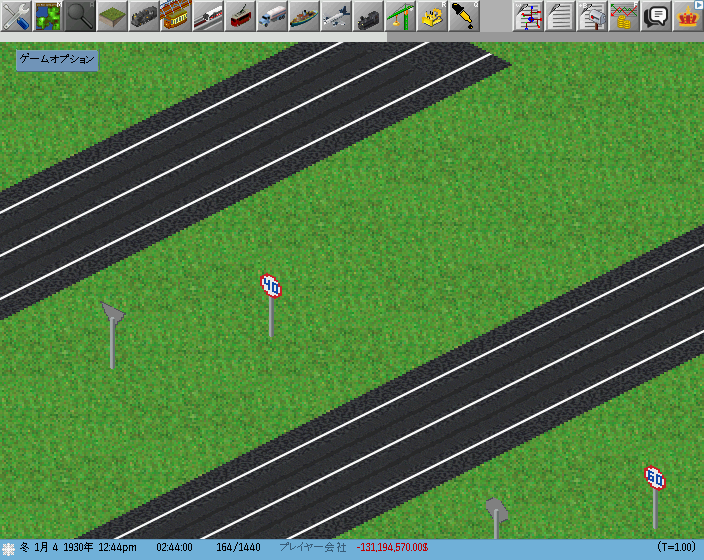
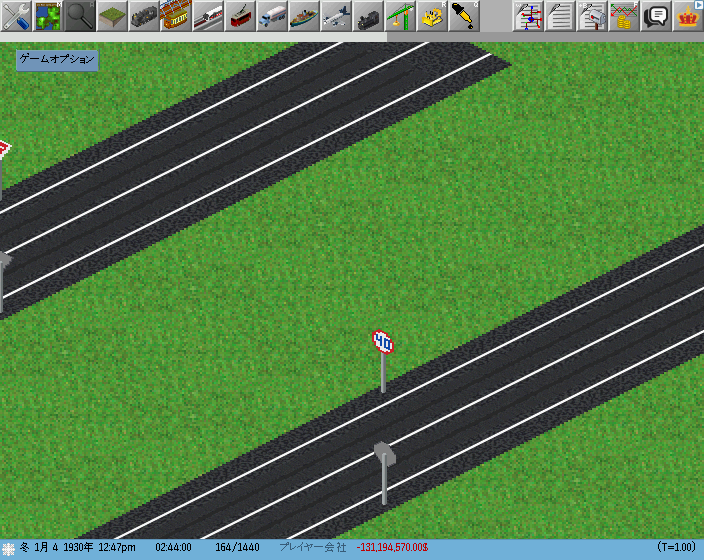
ami: keep the road sign offset_left at 14 for 256 (#261)
The unit is 1/64 of the tile width (tile_raster_scale_x), so it does not scale with the pak size. Doubling it put the signs about one tile off the road.

diff --git a/addons/ami/blender/ami_dat.py b/addons/ami/blender/ami_dat.py
@@ -815,7 +815,7 @@ def yard_dat_text(name):
 ROADSIGN_COST = 500
 ROADSIGN_INTRO_YEAR = 1900
 ROADSIGN_EFFECT = {"one_way": "single_way=1", "min_50": "min_speed=50"}
-ROADSIGN_OFFSET_LEFT = 14 * sheet_settings.SCALE  # 左側通行のときのずらし（本体の既定 14 を明示する。obj/roadsign.cc の calc_image は画素で足すので、pak の大きさに比例させる。#261）
+ROADSIGN_OFFSET_LEFT = 14  # 左側通行のときのずらし（本体の既定と同じ値を明示する。obj/roadsign.cc の calc_image）。単位はタイルの幅の 1/64（描くときに tile_raster_scale_x で現在のタイルの幅に直す）なので、pak の大きさによらず同じ値（256 でも 14。倍にすると標識が 1 タイル近く外へずれる。#261 の B で確かめた）
 ROADSIGN_ICON_CELL = "0.4"  # sheetlib の roadsign.ROADSIGN_ICON_CELL と同じ
 ROADSIGN_CURSOR_CELL = "1.4"  # sheetlib の roadsign.ROADSIGN_CURSOR_CELL と同じ
 ROADSIGN_OFFSET = OFFSET  # 道路の way と同じ（sheetlib の ROAD_CY）

diff --git a/docs/records/2026-11-25_ami-pak-size-256-ways.md b/docs/records/2026-11-25_ami-pak-size-256-ways.md
@@ -9,10 +9,10 @@
 ## 分かったこと（事実）
 
 - **pak128 の全シートが変更前のコードで描いた絵と全画素で一致した**（2026-11-25）。変更前は `origin/main`（`9c8f7cd`）の別の worktree で、変更後は変更したコードで、AMI の 221 シートを描き（踏切は道路の後。最後に `icons.py` を全部）、RGB の全画素（透明色を含む）を比べた（Pillow で 221 枚。差のあるシート 0・欠けたシート 0）。シートの横の控え（`*.road_cells.txt`・`*.icon_sources.txt`）も同じ。変更前の絵はコミット済みのシートと一致した（git の差分なし）。
-- 画素で書いた値は、#266 で共通の部品（`CELL`・高さ 1 段・基準位置・持ち分を広げる行数など）に `SCALE` を掛けてあった。B で直したのは次の 3 つだけ。
+- 画素で書いた値は、#266 で共通の部品（`CELL`・高さ 1 段・基準位置・持ち分を広げる行数など）に `SCALE` を掛けてあった。B で直したのは次の 2 つだけ（標識の `offset_left` は直さない。下）。
   - **画面で横向きになる斜めの白線の半画素のずらし**（`sheetlib.py` の `DIAG_CENTER_SHIFT`・路側線の丸め）: pak128 は線の画面での太さが約 1px で、線を画素の行の中心に置くために 0.5px ずらす。256 は太さが約 2px（偶数）で、行の境に置くべきなので、ずらさない。そのままだと線が 1 行の白と両側の半端な 2 行に割れ、白線が細く灰色に見えた。偶数の倍率では 0、奇数では 0.5（`DIAG_HALF_PX`）にした。倍率 1 は同じ値。256 では白線が 2px の白でそろった（行の値 255・238）。生活道路（#266 のシート）の縁の白線も同じ理由で描き直した（`src256/ami_road_local.png`）。
   - **標識の板**（`roadsign.py`）: 板は 3×5 の数字などの画素の絵（pak128 の大きさ）を、柱の上に押している。256 は最近傍で `SCALE` 倍に拡大して押す（倍率 1 は同じ絵）。柱の高さ・太さは世界の単位なので変えない。
-  - **標識の左側通行のずらし**（`ami_dat.py` の `ROADSIGN_OFFSET_LEFT`）: 本体（`obj/roadsign.cc` の `calc_image`）は画素で足すので、14 を `SCALE` 倍にした。
+  - **標識の左側通行のずらし**（`ami_dat.py` の `ROADSIGN_OFFSET_LEFT`）は、倍にしない。最初は本体（`obj/roadsign.cc` の `calc_image`）が画素で足すと読んで 14 → 28 にしたが、誤りだった。`xoff` の単位はタイルの幅の 1/64 で、描くときに `tile_raster_scale_x(xoff, 現在のタイルの幅)` で直す（`simconst.h`）ので、pak の大きさによらず 14 のまま。28 にすると標識が左側通行のずらしの 2 倍外へ出て、道路の脇でなく 1 タイル近く外の草地に立って見えた（ユーザーの指摘、2026-11-25。標識はスクリーンショット `08_roadsign.png` で確かめ直した）。
 - `ami_dat.py` は、256 のとき `catalog.SCALED_SHEETS` の物だけ dat を書く（`put` に集約）。`SCALED_SHEETS` に、道路 4 種・路面軌道・歩道・標識・路面表示（33 シート）を足した。分岐の追加画像の提供用の dat（`ex_donors.dat`）は 256 では書かない（D）。
 - `build.py` は、環境変数 `BUILD_SKIP_MISSING=1` で、絵のシートが無い dat を組まない（CI は 256 の PNG が生活道路だけなので、これで絵のある物だけを組む）。`check.sh` は、`CHECK_256_FULL=1` が無いときにこれを付ける。`addons/ami/.gitignore` に `src256/*.png`・`src256/*.txt`（生活道路を除く）を足した。
 - **256（pak512 で組む）**: 33 シートを描き、手元の makeobj `pak512` が警告なしで通った（`ami.pak` 33 dat・`ami_road.pak` 20 dat・`ami_tram.pak`・`ami_extra.pak`・`ami_scenery.pak`）。アイコン・カーソルは `icons.py` を、描いた対象の名前を渡して流す（`render_parallel.py` はアイコンのセルを書かない）。`SHEET_PAK_SIZE=256` の `check_icons.py`（33 物・33 シート）・`check_cells.py` が通った。
@@ -24,7 +24,7 @@
 - 路面軌道の横向きの斜め（`TRAM_HDIAG_HEAD`・`TRAM_HDIAG_GROOVE`）は変えなかった。256 の絵では、レールの頭と溝が暗い線として見えた（縮めて比べて、128 の絵と同じ並び）。ゲームで細く見えるかは、ユーザーの確認と、線路（C）で測ってから決める。
 - 標識の板は 128 の画素の絵の拡大で、256 らしい細かさではない（pak256 の標識の絵は別に決める）。
 - ゲームの確認は、見本の全部の場所ではなく、種類ごとの代表の場所（スクリーンショットの場所）。路面表示の雪・標識の雪（標識は季節の絵を持たない）・歩道の舗装 3 種（敷石の材質の違いだけ。絵は縮めて比べた）はゲームで見ていない。
-- 標識の `offset_left`（左側通行のずらし）を `SCALE` 倍にした根拠は、本体のコード（画素で足す）の読み。左側通行の地図（`flat_512_left_v64`）で標識は柱の位置に合って見えたが、右側通行は確かめていない。
+- 標識の `offset_left` は左側通行（`traffic_left`）のときだけ効く（`obj/roadsign.cc`）。右側通行の地図は検証環境に無く、確かめていない（コードの読みでは、右側通行は `offset_left` を使わない）。
 - CI は 256 の PNG が生活道路だけの状態で動く（PNG はコミットしない）。CI が 256 で makeobj に通すのは生活道路 1 つだけで、今回足した 32 個の dat の組みは、手元（makeobj 60.12 系）の結果だけが根拠。CI の makeobj（本家 125.0 の Linux 版 60.10）で通るかは、この PR では確かめられない。
 - `CHECK_256_FULL=1`（256 の 5 つの検査を全部の物に厳しく流す）は、踏切・車庫・盛土のシートが 256 に無い間（C・D が済むまで）は通らない。この PR の完了条件には使えない。
 - 白線の半画素の規則（偶数は 0、奇数は 0.5）は倍率 1・2 だけで確かめた。3 以上は未確認（README に書いた）。
